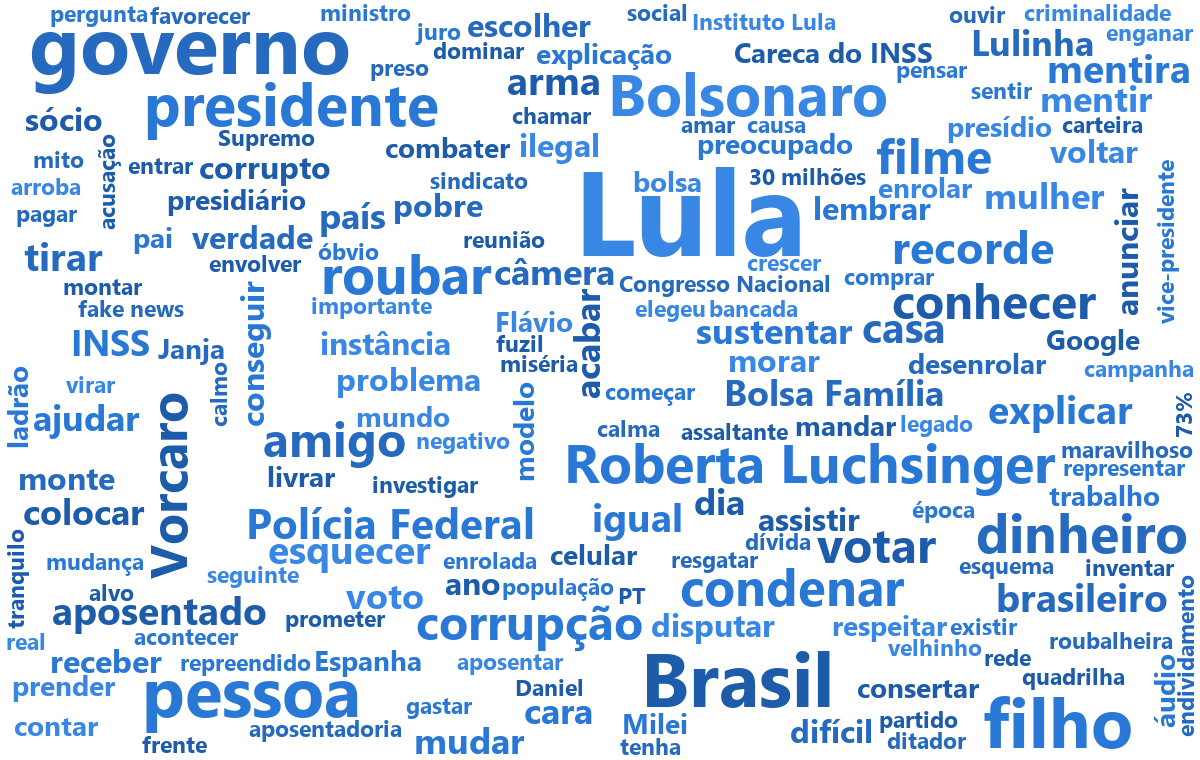
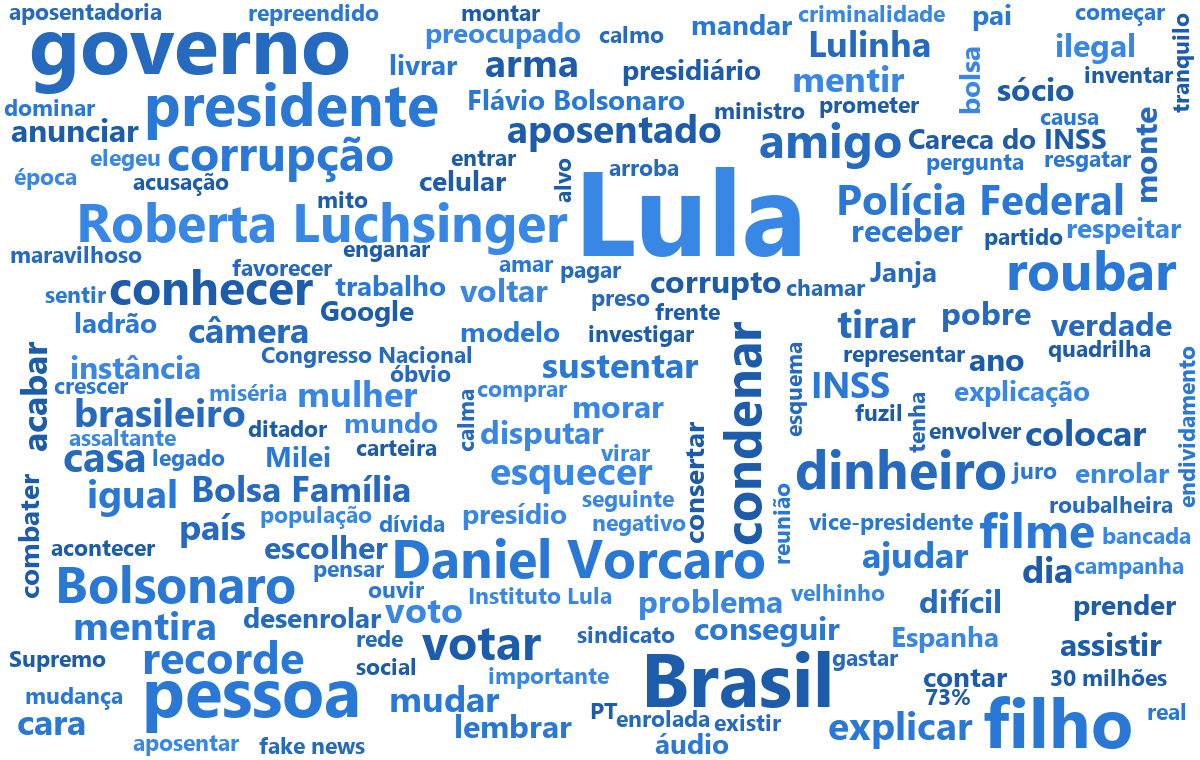
Nuvem: Daniel Vorcaro e Flávio Bolsonaro como um termo só

diff --git a/docs/index.html b/docs/index.html
@@ -246,8 +246,8 @@ a { color: inherit; text-underline-offset: 2px; }
       <h2 id="h-nuvem">Mapa de palavras</h2>
       <p class="sub">Termos ditos pelo menos duas vezes. As duas nuvens estão na mesma escala: palavras do mesmo tamanho foram ditas o mesmo número de vezes, e a área de cada uma é proporcional à contagem.</p>
       <div class="grid2">
-        <figure class="cloud" style="margin:0"><h3><span class="sw lula"></span>Lula</h3><img src="img/nuvem_lula.png?v=2" alt="Nuvem de palavras das falas de Lula" id="img-lula"></figure>
-        <figure class="cloud" style="margin:0"><h3><span class="sw flavio"></span>Flávio</h3><img src="img/nuvem_flavio.png?v=2" alt="Nuvem de palavras das falas de Flávio Bolsonaro" id="img-flavio"></figure>
+        <figure class="cloud" style="margin:0"><h3><span class="sw lula"></span>Lula</h3><img src="img/nuvem_lula.png?v=3" alt="Nuvem de palavras das falas de Lula" id="img-lula"></figure>
+        <figure class="cloud" style="margin:0"><h3><span class="sw flavio"></span>Flávio</h3><img src="img/nuvem_flavio.png?v=3" alt="Nuvem de palavras das falas de Flávio Bolsonaro" id="img-flavio"></figure>
       </div>
       <details><summary>Ver os 25 termos mais ditos por cada um</summary><div class="tbl-wrap"><table id="tbl-lemas"></table></div></details>
       <details><summary>Como lemos as palavras</summary><ul id="crit-nuvem" style="margin:8px 0 0;padding-left:18px"></ul></details>

diff --git a/scripts/analyze.py b/scripts/analyze.py
@@ -67,6 +67,8 @@ PRONOUNS = {"eu": r"\b(eu|meu|minha|meus|minhas|comigo)\b",
 COMPOSTOS = [
     (r"careca do inss|careca", "Careca do INSS"),
     (r"roberta luchsinger|luchsinger|roberta", "Roberta Luchsinger"),
+    (r"daniel vorcaro|vorcaro|daniel", "Daniel Vorcaro"),  # "Daniel" sozinho também é ele ("ó, Daniel, não vende o banco")
+    (r"fl[aá]vio bolsonaro", "Flávio Bolsonaro"),  # separa o candidato de "Bolsonaro" (o pai)
     (r"pol[ií]cia federal", "Polícia Federal"),
     (r"bolsa fam[ií]lia", "Bolsa Família"),
     (r"banco central", "Banco Central"),
